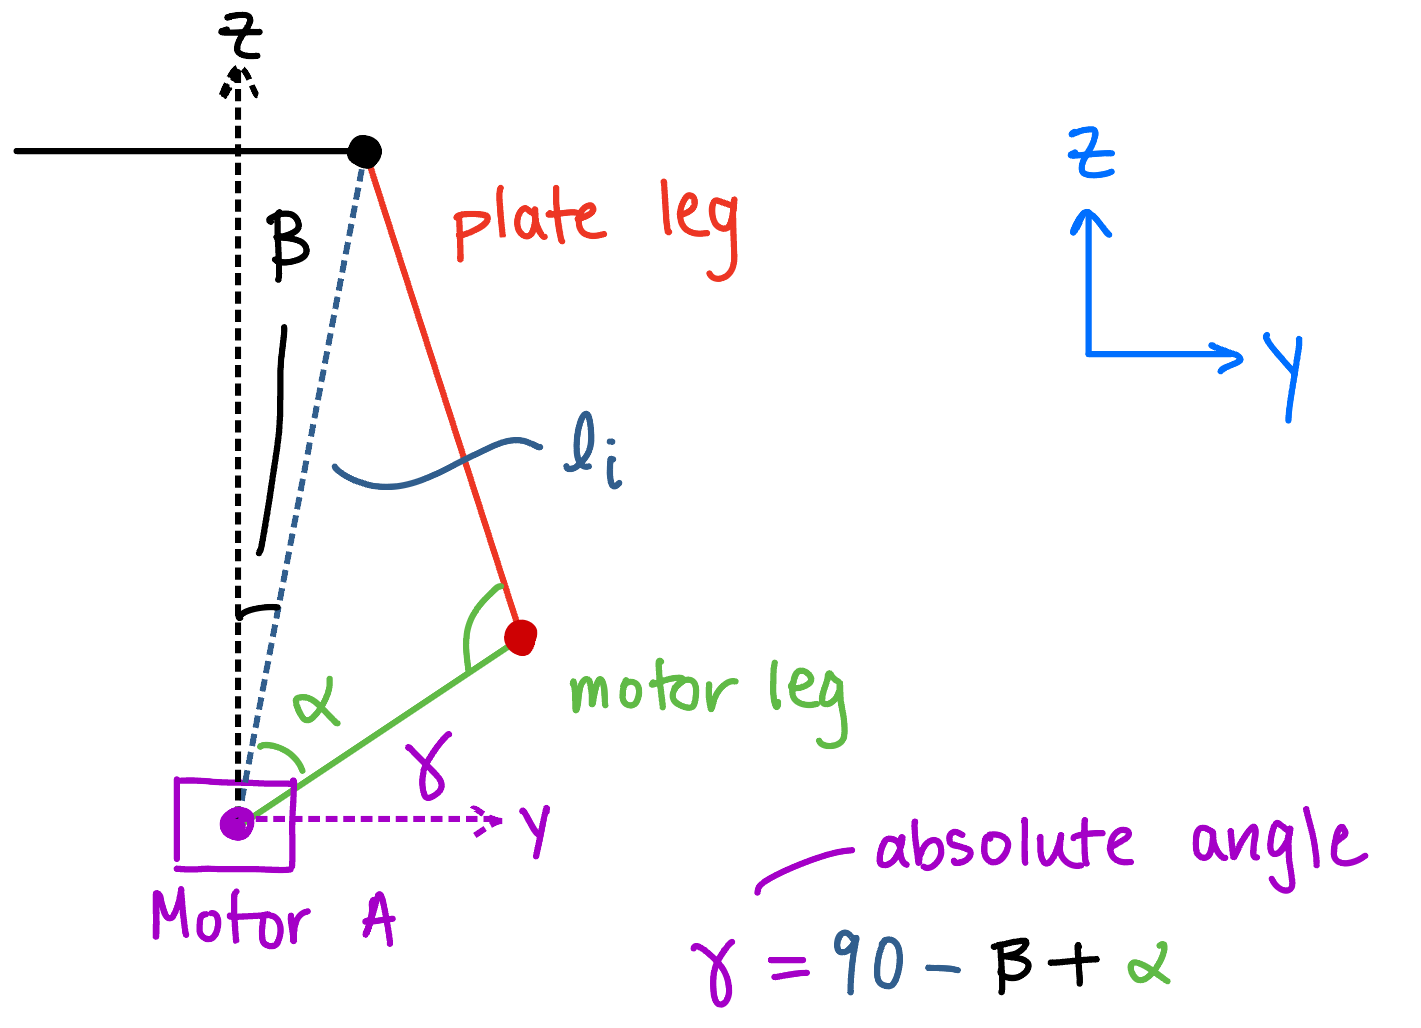
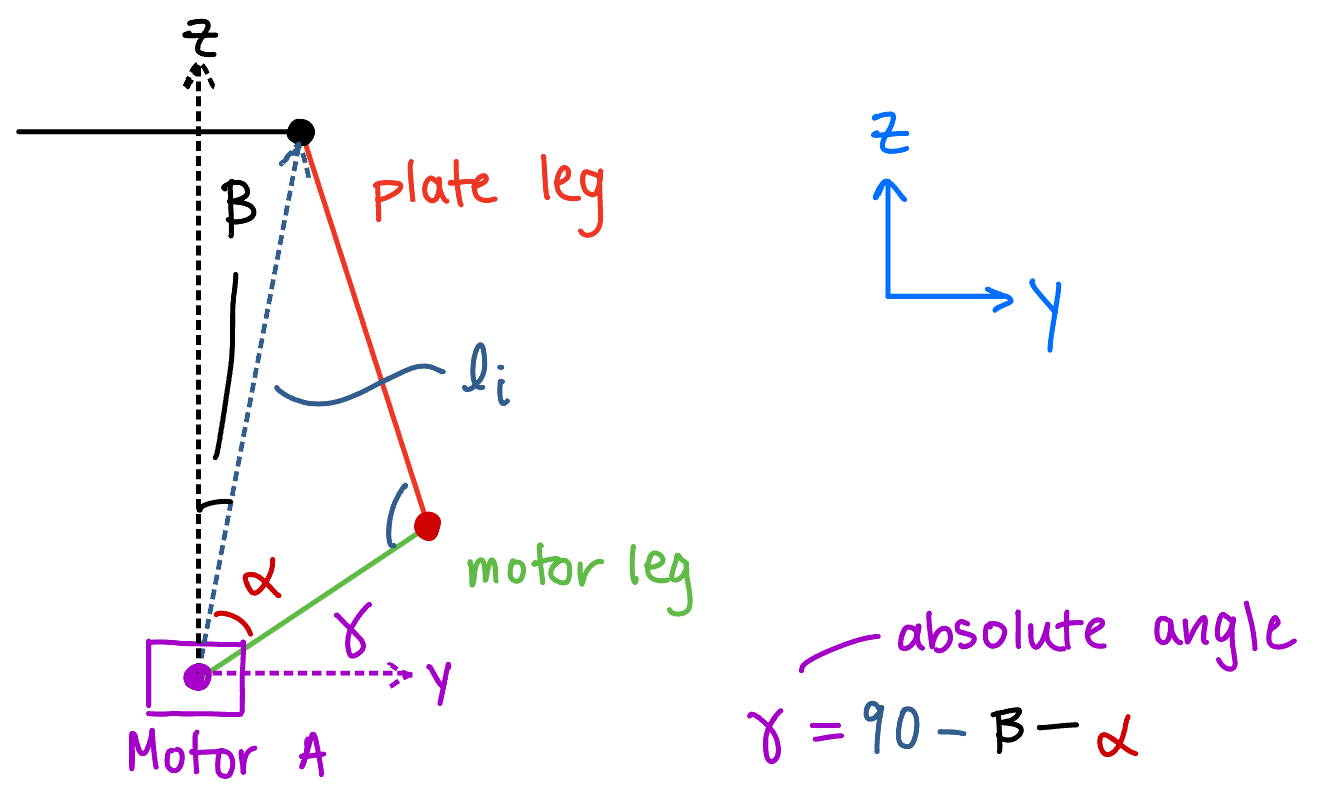
austin's edits and fixed some math

diff --git a/kinematics/plate_kinematics.py b/kinematics/plate_kinematics.py
@@ -70,7 +70,8 @@ def calculate_li(T: npt.NDArray, phi_x: float, theta_y: float, pi_plane: npt.NDA
 
 def calculate_abs_motor_angle_from_li(li: npt.NDArray) -> float:
     """Given li (vector between the plate mount and the motor mount) for any motor, calculate the absolute angle of the 
-    motor. This is with reference to the axis of the motor = 0. See angle gamma from `absolute_motor_angle.png`.
+    motor. This is with reference to the axis of the motor = 0. See angles from `relative_motor_angle.png` and 
+    `absolute_motor_angle.png`.
     
     Args:
         li (3 float vector): The vector from the motor mount -> plate mount
@@ -81,14 +82,14 @@ def calculate_abs_motor_angle_from_li(li: npt.NDArray) -> float:
     # Magnitude of the vector between the plate mount and the motor mount
     li_mag = np.linalg.norm(li)
     # Use co-sine law to calculate the angle between the li vector and the motor shaft
-    rel_shaft_angle = calculate_angle_from_cosine(li_mag, MOTOR_LEG_LENGTH, PLATE_LEG_LENGTH)
+    alpha = calculate_angle_from_cosine(PLATE_LEG_LENGTH, li_mag, MOTOR_LEG_LENGTH)
     # Calculate the angle between li and the z-axis
     li_norm = li/li_mag
-    li_angle_from_z = np.arccos(np.dot(UNIT_K, li_norm))
+    beta = np.arccos(np.dot(UNIT_K, li_norm))
     # For example, when the li vector is pointing solely in the z-direction, the rel_shaft_angle = abs_shaft_angle
     # Otherwise, if the li vector is tilted toward the plate or away from the plate, the motor shaft angle will need
     # overrotate or under rotate to compensate. 
-    gamma = np.pi/4 - li_angle_from_z - rel_shaft_angle
+    gamma = np.pi/4 - beta - alpha
     return gamma
 
 
@@ -105,7 +106,7 @@ N = np.array([0, 0, 1]) # normal vector of plate
 motors = [Motor(orientation, distance=P_B_length) for orientation in MOTOR_ORIENTATIONS] # initializes motors a, b, c
 phi_x, theta_y = calculate_theta_phi_from_N(N)
 for motor in motors:
-    li = calculate_li(T, phi_x, theta_y, pi=motor.plate_orientation_vector, bi = motor.motor_orientation_vector)
+    li = calculate_li(T, phi_x, theta_y, pi=motor.PLATE_ORIENTATION_VECTOR, bi = motor.MOTOR_ORIENTATION_VECTOR)
     abs_angle = calculate_abs_motor_angle_from_li(li)
     motor.set_desired_angle(abs_angle)
 

diff --git a/kinematics/motor.py b/kinematics/motor.py
@@ -1,8 +1,5 @@
 import numpy as np
 
-# HELPER CONSTANTS
-UNIT_XY_VEC = np.array([1, 1, 0])
-
 MOTOR_LEG_LENGTH = 3
 PLATE_LEG_LENGTH = 6
 
@@ -17,7 +14,7 @@ class Motor:
 
     def orientation_vector(self): 
         # This is bi & pi
-        motor_orientation_vector = np.multiply(UNIT_XY_VEC, [np.cos(self.orientation), np.sin(self.orientation), 0])
+        motor_orientation_vector = np.array([np.cos(self.orientation), np.sin(self.orientation), 0])
         self.MOTOR_ORIENTATION_VECTOR = motor_orientation_vector * self.distance_from_origin
         self.PLATE_ORIENTATION_VECTOR = self.MOTOR_ORIENTATION_VECTOR
 
